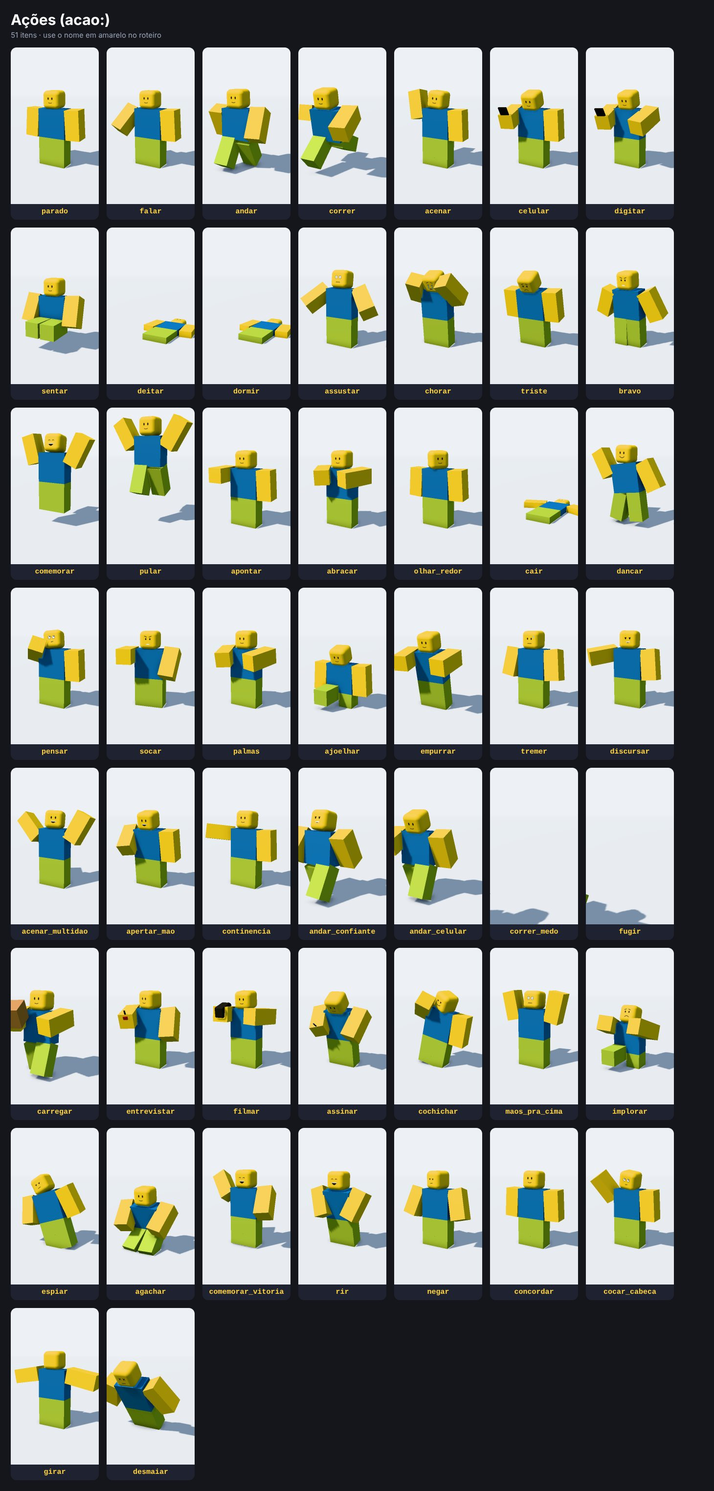
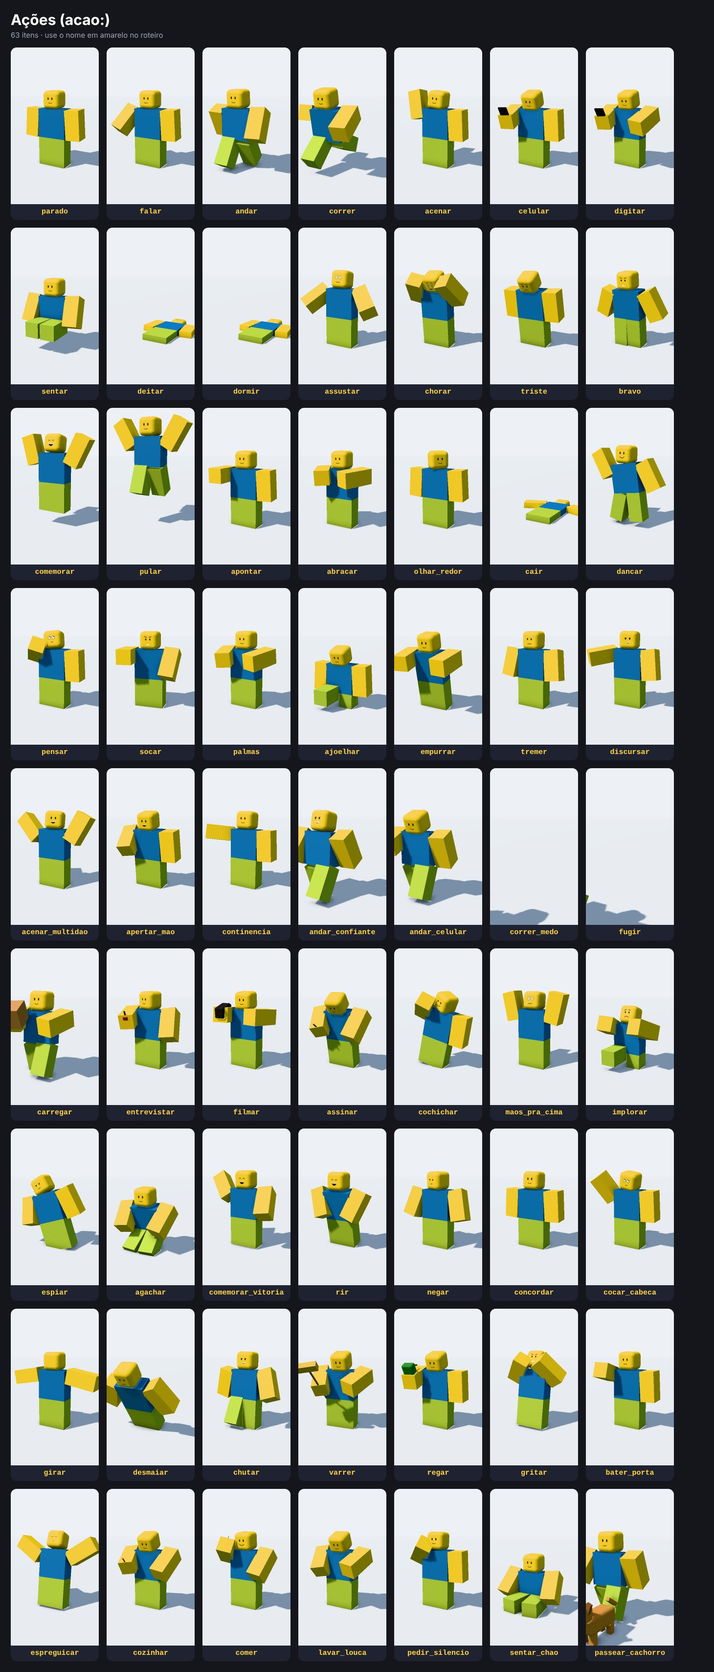
Bairro brasileiro: cenários, casas, animais, personagens e ações
- Cenários: bairro (casas e sobrados com telhado de telha, muros,
  portões, fios de poste, morro ao fundo), quintal, cozinha, campinho
- 28 props: casa_br, sobrado, muro, portao, caixa_dagua, churrasqueira,
  piscina, varal, cachorro, gato, bicicleta, moto, cozinha, parquinho...
- 10 personagens de bairro/família e 12 ações do dia a dia
- pet: cachorro/gato que acompanha o dono; passear_cachorro com coleira
- Âncoras com direção (cadeira do quintal, fogão, pia, mesa)

Claude-Session: https://claude.ai/code/session_01L9V3oGiK3wXogPFqZJY4DD

diff --git a/src/motor/props.js b/src/motor/props.js
@@ -116,8 +116,94 @@ export const PROPS = {
     return g; },
   quadro_parede: (o = {}) => { const g = grupo([caixa(3.4, 4.2, 0.2, '#c9a24a', { pos: [0, 0, 0] })]); const p = placaTexto(o.texto || '★', 3.0, 1.6, { fundo: o.cor || '#3a5a8a', corTexto: '#f5e6b8' });
     p.position.set(0, 0, 0.11); g.add(p); g.add(plano(3.0, 3.8, mat(o.cor || '#3a5a8a'), { pos: [0, 0, 0.105] })); return g; },
+  // --- bairro (casas brasileiras) ---
+  casa_br: (o = {}) => casaBR(o, 1),
+  sobrado: (o = {}) => casaBR(o, 2),
+  muro: (o = {}) => { const w = o.largura || 10, c = o.cor || '#e9e6dc', h = o.altura || 2.2; const g = grupo([]);
+    const vao = o.portao === false ? 0 : 3.2, px = o.portao_x ?? 0;
+    const lados = vao ? [[-w / 2, px - vao / 2], [px + vao / 2, w / 2]] : [[-w / 2, w / 2]];
+    for (const [a, b] of lados) if (b - a > 0.05) { g.add(caixa(b - a, h, 0.4, c, { pos: [(a + b) / 2, h / 2, 0] })); g.add(caixa(b - a + 0.04, 0.15, 0.5, '#d8d4cc', { pos: [(a + b) / 2, h + 0.07, 0] })); }
+    if (vao) { const pt = PROPS.portao({ largura: vao, cor: o.portao_cor }); pt.position.x = px; g.add(pt); }
+    return g; },
+  portao: (o = {}) => { const w = o.largura || 3.2, c = o.cor || '#3a3d44'; const g = grupo([caixa(w, 0.12, 0.12, c, { pos: [0, 2.3, 0] }), caixa(w, 0.12, 0.12, c, { pos: [0, 0.15, 0] })]);
+    for (let x = -w / 2 + 0.1; x <= w / 2 - 0.05; x += 0.28) g.add(caixa(0.07, 2.2, 0.07, c, { pos: [x, 1.22, 0] })); return g; },
+  cerca_viva: (o = {}) => { const g = grupo([]); for (let i = 0; i < (o.n || 5); i++) g.add(caixa(1.6, 1.4, 1.2, i % 2 ? '#2f8a3c' : '#38a047', { pos: [i * 1.55, 0.7, 0], round: 0.4 })); return g; },
+  caixa_dagua: () => grupo([cilindro(1.0, 0.9, 1.3, '#1e6fd9', { pos: [0, 0.65, 0], seg: 20 }), cilindro(1.05, 1.05, 0.2, '#1a5fc0', { pos: [0, 1.4, 0], seg: 20 })]),
+  churrasqueira: () => grupo([caixa(3, 2.6, 1.6, '#b5653b', { pos: [0, 1.3, 0] }), caixa(2.2, 1.0, 0.3, '#1b1b1b', { pos: [0, 2.0, 0.7] }),
+    caixa(1.2, 3, 1.0, '#a85a33', { pos: [0, 4.1, -0.2] }), caixa(2.0, 0.08, 0.8, '#777', { pos: [0, 2.0, 0.4] })]),
+  piscina: (o = {}) => { const w = o.largura || 8, d = o.prof || 5; return grupo([caixa(w + 1, 0.3, d + 1, '#e8e2d2', { pos: [0, 0.15, 0] }),
+    caixa(w, 0.32, d, mat('#3fb6e8', { rough: 0.05, metal: 0.1, emissive: '#1a7fb0', emissiveIntensity: 0.25 }), { pos: [0, 0.17, 0], sombra: false })]); },
+  varal: () => { const g = grupo([cilindro(0.06, 0.06, 3.5, '#888', { pos: [-3, 1.75, 0] }), cilindro(0.06, 0.06, 3.5, '#888', { pos: [3, 1.75, 0] }), cilindro(0.02, 0.02, 6, '#ddd', { pos: [0, 3.4, 0], rot: [0, 0, 90] })]);
+    [['#e53935', -2.2, 1.2], ['#1e88e5', -0.9, 1.0], ['#fdd835', 0.3, 1.3], ['#ffffff', 1.6, 0.9]].forEach(([c, x, h]) => g.add(caixa(1.0, h, 0.04, c, { pos: [x, 3.35 - h / 2, 0] }))); return g; },
+  casinha_cachorro: (o = {}) => { const g = grupo([caixa(2.4, 1.8, 2.4, o.cor || '#b5653b', { pos: [0, 0.9, 0] }), caixa(0.9, 1.1, 0.1, '#2a1a12', { pos: [0, 0.6, 1.21] })]);
+    for (const s of [-1, 1]) g.add(caixa(1.6, 0.15, 2.7, '#7a2e1f', { pos: [s * 0.62, 2.2, 0], rot: [0, 0, -s * 38] })); return g; },
+  cachorro: (o = {}) => { const c = o.cor || '#c58a4a', esc = '#2a1a12'; const g = grupo([caixa(1.0, 0.9, 2.0, c, { pos: [0, 1.0, 0], round: 0.2 }), caixa(0.9, 0.85, 0.9, c, { pos: [0, 1.7, 1.15], round: 0.25 }),
+    caixa(0.5, 0.35, 0.4, o.focinho || '#e8c9a0', { pos: [0, 1.55, 1.7], round: 0.1 }), caixa(0.18, 0.14, 0.1, esc, { pos: [0, 1.68, 1.92] }),
+    caixa(0.25, 0.5, 0.15, o.orelha || '#8a5a33', { pos: [-0.42, 2.0, 1.1], rot: [0, 0, 20] }), caixa(0.25, 0.5, 0.15, o.orelha || '#8a5a33', { pos: [0.42, 2.0, 1.1], rot: [0, 0, -20] }),
+    caixa(0.12, 0.12, 0.05, esc, { pos: [-0.22, 1.85, 1.61] }), caixa(0.12, 0.12, 0.05, esc, { pos: [0.22, 1.85, 1.61] }), caixa(0.2, 0.2, 0.9, c, { pos: [0, 1.5, -1.3], rot: [-35, 0, 0] })]);
+    for (const [x, z] of [[-0.3, 0.7], [0.3, 0.7], [-0.3, -0.7], [0.3, -0.7]]) g.add(caixa(0.3, 0.6, 0.3, c, { pos: [x, 0.3, z] })); g.scale.setScalar(o.tam || 1); return g; },
+  gato: (o = {}) => { const c = o.cor || '#7c7f88'; const g = grupo([caixa(0.6, 0.6, 1.2, c, { pos: [0, 0.6, 0], round: 0.15 }), caixa(0.65, 0.6, 0.6, c, { pos: [0, 1.15, 0.6], round: 0.15 }),
+    cilindro(0, 0.13, 0.3, c, { pos: [-0.2, 1.55, 0.6], seg: 4 }), cilindro(0, 0.13, 0.3, c, { pos: [0.2, 1.55, 0.6], seg: 4 }), caixa(0.12, 0.12, 0.8, c, { pos: [0, 1.0, -0.8], rot: [-50, 0, 0] }),
+    caixa(0.1, 0.12, 0.04, '#9be36b', { pos: [-0.14, 1.2, 0.91] }), caixa(0.1, 0.12, 0.04, '#9be36b', { pos: [0.14, 1.2, 0.91] })]);
+    for (const [x, z] of [[-0.18, 0.4], [0.18, 0.4], [-0.18, -0.4], [0.18, -0.4]]) g.add(caixa(0.18, 0.4, 0.18, c, { pos: [x, 0.2, z] })); return g; },
+  bicicleta: (o = {}) => { const c = o.cor || '#c4281c'; const g = grupo([]);
+    for (const z of [-1.1, 1.1]) { const roda = new THREE.Mesh(new THREE.TorusGeometry(0.7, 0.07, 8, 24), mat('#1b1b1b')); roda.position.set(0, 0.75, z); roda.rotation.y = Math.PI / 2; roda.castShadow = true; g.add(roda); }
+    g.add(caixa(0.12, 0.12, 2.0, c, { pos: [0, 1.25, 0], rot: [-12, 0, 0] })); g.add(caixa(0.12, 1.0, 0.12, c, { pos: [0, 1.2, -0.5] })); g.add(caixa(0.4, 0.12, 0.7, '#222', { pos: [0, 1.75, -0.55] }));
+    g.add(caixa(0.12, 0.9, 0.12, c, { pos: [0, 1.4, 1.0] })); g.add(caixa(1.0, 0.1, 0.1, '#222', { pos: [0, 1.9, 1.0] })); return g; },
+  moto: (o = {}) => { const c = o.cor || '#1d3b72'; const g = grupo([caixa(0.7, 0.9, 2.4, c, { pos: [0, 1.2, 0], round: 0.25 }), caixa(0.6, 0.25, 1.1, '#111', { pos: [0, 1.75, -0.4] }),
+    caixa(1.2, 0.1, 0.1, '#222', { pos: [0, 2.1, 1.05] }), caixa(0.5, 0.4, 0.2, mat('#ffe9a8', { emissive: '#ffe9a8', emissiveIntensity: 0.8 }), { pos: [0, 1.6, 1.25] })]);
+    for (const z of [-1.0, 1.05]) g.add(cilindro(0.6, 0.6, 0.3, '#1b1b1b', { pos: [0, 0.6, z], rot: [0, 0, 90] })); if (o.bau) g.add(caixa(1.0, 0.9, 0.9, '#c4281c', { pos: [0, 2.1, -1.1] })); return g; },
+  balanco: () => { const g = grupo([caixa(5, 0.25, 0.25, '#c4281c', { pos: [0, 5, 0] })]);
+    for (const x of [-2.4, 2.4]) for (const z of [-1, 1]) g.add(caixa(0.22, 5.2, 0.22, '#c4281c', { pos: [x, 2.5, z * 0.8], rot: [z * 12, 0, 0] }));
+    for (const x of [-1, 1]) { g.add(cilindro(0.03, 0.03, 3.2, '#999', { pos: [x - 0.4, 3.4, 0] })); g.add(cilindro(0.03, 0.03, 3.2, '#999', { pos: [x + 0.4, 3.4, 0] })); g.add(caixa(1.0, 0.12, 0.5, '#f5cd30', { pos: [x, 1.8, 0] })); }
+    return g; },
+  escorregador: () => grupo([caixa(1.6, 0.2, 5, '#1e88e5', { pos: [0, 1.9, 1.6], rot: [38, 0, 0] }), caixa(1.8, 3.6, 1.8, '#f5cd30', { pos: [0, 1.8, -1.6] }), caixa(1.9, 0.2, 1.9, '#e53935', { pos: [0, 3.7, -1.6] })]),
+  trave: () => { const b = '#f2f3f3'; return grupo([caixa(0.25, 4.2, 0.25, b, { pos: [-4, 2.1, 0] }), caixa(0.25, 4.2, 0.25, b, { pos: [4, 2.1, 0] }), caixa(8.25, 0.25, 0.25, b, { pos: [0, 4.2, 0] }),
+    caixa(8, 4.2, 0.04, new THREE.MeshStandardMaterial({ color: 0xffffff, transparent: true, opacity: 0.25, roughness: 1 }), { pos: [0, 2.1, -1.5], sombra: false })]); },
+  bola: (o = {}) => { const g = grupo([esfera(0.45, o.cor || '#ffffff', { pos: [0, 0.45, 0] })]); for (const [x, y, z] of [[0, 0.88, 0], [0.4, 0.5, 0.15], [-0.3, 0.55, 0.32], [0.05, 0.2, -0.38]]) g.add(esfera(0.13, '#111', { pos: [x, y, z] })); return g; },
+  geladeira: () => grupo([caixa(2.0, 5.2, 1.8, '#f2f3f3', { pos: [0, 2.6, 0], round: 0.12 }), caixa(2.02, 0.05, 1.82, '#bbb', { pos: [0, 3.6, 0] }), caixa(0.1, 1.0, 0.1, '#999', { pos: [0.75, 4.3, 0.95] }), caixa(0.1, 1.4, 0.1, '#999', { pos: [0.75, 2.6, 0.95] })]),
+  fogao: () => { const g = grupo([caixa(2.2, 2.3, 1.8, '#f2f3f3', { pos: [0, 1.15, 0] }), caixa(1.8, 1.1, 0.06, '#222', { pos: [0, 1.0, 0.92] }), caixa(2.2, 0.08, 1.8, '#222', { pos: [0, 2.34, 0] })]);
+    for (const x of [-0.5, 0.5]) for (const z of [-0.4, 0.4]) g.add(cilindro(0.3, 0.3, 0.06, '#444', { pos: [x, 2.4, z], seg: 14 })); return g; },
+  pia: () => grupo([caixa(4, 2.3, 1.8, '#f2f3f3', { pos: [0, 1.15, 0] }), caixa(4.1, 0.15, 1.9, '#8c8f99', { pos: [0, 2.35, 0] }), caixa(1.6, 0.1, 1.1, '#5a5d66', { pos: [-0.8, 2.43, 0] }),
+    cilindro(0.06, 0.06, 0.8, '#ccc', { pos: [-0.8, 2.8, -0.6] }), caixa(0.1, 0.1, 0.5, '#ccc', { pos: [-0.8, 3.15, -0.4] })]),
+  armario: (o = {}) => { const w = o.largura || 6, g = grupo([caixa(w, 2.2, 1.2, o.cor || '#a8754a', { pos: [0, 0, 0] })]);
+    for (let x = -w / 2 + 1; x < w / 2; x += 2) { g.add(caixa(1.85, 2.0, 0.05, o.cor2 || '#c9945e', { pos: [x, 0, 0.62] })); g.add(caixa(0.1, 0.4, 0.08, '#555', { pos: [x + 0.7, 0, 0.66] })); } return g; },
+  mesa_jantar: (o = {}) => { const g = PROPS.mesa({ largura: o.largura || 5, cor: o.cor || '#8a5a33' });
+    for (const [x, z, v] of [[-1.3, 2.0, 180], [1.3, 2.0, 180], [-1.3, -2.0, 0], [1.3, -2.0, 0]]) { const c = PROPS.cadeira({ cor: o.cadeira || '#a8754a' }); c.position.set(x, 0, z); c.rotation.y = v * Math.PI / 180; g.add(c); }
+    return g; },
+  cadeira_plastico: (o = {}) => grupo([caixa(1.5, 0.2, 1.5, o.cor || '#f2f3f3', { pos: [0, 1.0, 0], round: 0.08 }), caixa(1.5, 1.4, 0.15, o.cor || '#f2f3f3', { pos: [0, 1.8, -0.7], rot: [-8, 0, 0], round: 0.05 }),
+    ...[[-0.6, 0.6], [0.6, 0.6], [-0.6, -0.6], [0.6, -0.6]].map(([x, z]) => caixa(0.15, 1.0, 0.15, o.cor || '#f2f3f3', { pos: [x, 0.5, z] }))]),
+  saco_lixo: () => grupo([esfera(0.6, '#1b1b1b', { pos: [0, 0.55, 0], mat: { rough: 0.3 } }), esfera(0.5, '#1b1b1b', { pos: [0.8, 0.45, 0.2], mat: { rough: 0.3 } })]),
+  vaso_flor: (o = {}) => grupo([cilindro(0.45, 0.35, 0.8, '#b5653b', { pos: [0, 0.4, 0] }), ...[0, 1, 2, 3].map(i => esfera(0.22, o.cor || ['#ff4f8b', '#ffd23f', '#e53935', '#b06bff'][i], { pos: [Math.sin(i * 1.6) * 0.25, 1.05, Math.cos(i * 1.6) * 0.25] }))]),
+  poste_fios: (o = {}) => { const g = grupo([cilindro(0.22, 0.28, 11, '#9a9a9a', { pos: [0, 5.5, 0] }), caixa(2.6, 0.25, 0.25, '#7a7a7a', { pos: [0, 10, 0] }),
+    cilindro(0.35, 0.35, 0.9, '#6d6f75', { pos: [0.6, 8.6, 0] })]);
+    if (o.noite) { g.add(caixa(0.7, 0.25, 0.5, mat('#eee', { emissive: '#ffe2a0', emissiveIntensity: 2 }), { pos: [0, 8.0, 0.7] })); const l = new THREE.PointLight(0xffd59a, 35, 22, 1.6); l.position.set(0, 7.6, 1); g.add(l); }
+    return g; },
+  lombada: () => grupo([caixa(8, 0.25, 1.6, '#f5cd30', { pos: [0, 0.1, 0], round: 0.1 })]),
 };
 export const NOMES_PROPS = Object.keys(PROPS);
+
+/** Casa brasileira: telhado de telha em duas águas, grade na janela, caixa d'água opcional. andares = 1 ou 2. */
+function casaBR(o, andares) {
+  const w = o.largura || 9, d = 8, hA = 4.2, h = hA * andares, c = o.cor || '#f0b446', n = o.noite;
+  const g = grupo([caixa(w, h, d, c, { pos: [0, h / 2, 0] }), caixa(w + 0.1, 0.5, d + 0.1, o.barrado || '#d8d4cc', { pos: [0, 0.25, 0] })]);
+  const telha = o.telhado || '#c8643b', inc = 26, meio = d / 2 + 0.7, comp = meio / Math.cos(inc * Math.PI / 180);
+  for (const s of [-1, 1]) g.add(caixa(w + 1.2, 0.35, comp, telha, { pos: [0, h + Math.tan(inc * Math.PI / 180) * meio / 2, s * meio / 2], rot: [s * inc, 0, 0] }));
+  { // oitão (triângulo das laterais) sob as duas águas do telhado
+    const sub = Math.tan(inc * Math.PI / 180) * (d / 2), sh = new THREE.Shape([new THREE.Vector2(-d / 2, 0), new THREE.Vector2(d / 2, 0), new THREE.Vector2(0, sub)]);
+    const ot = new THREE.Mesh(new THREE.ExtrudeGeometry(sh, { depth: w - 0.02, bevelEnabled: false }), mat(c)); ot.rotation.y = Math.PI / 2; ot.position.set(-w / 2 + 0.01, h, 0);
+    ot.castShadow = ot.receiveShadow = true; g.add(ot); }
+  const vid = () => mat(n ? '#ffe3a3' : '#a8dcff', n ? { emissive: '#ffd27a', emissiveIntensity: 1.1 } : { rough: 0.15, metal: 0.1 });
+  const janela = (x, y) => { g.add(caixa(2.2, 1.9, 0.15, '#ffffff', { pos: [x, y, d / 2 + 0.04] })); g.add(caixa(1.9, 1.6, 0.16, vid(), { pos: [x, y, d / 2 + 0.06], sombra: false }));
+    if (o.grade !== false) for (let k = -0.8; k <= 0.81; k += 0.4) g.add(caixa(0.06, 1.7, 0.06, '#2b2b2b', { pos: [x + k, y, d / 2 + 0.2] })); };
+  g.add(caixa(1.8, 3.4, 0.15, o.porta || '#7a4b2a', { pos: [-w / 4, 1.95, d / 2 + 0.05] })); g.add(esfera(0.1, '#e0b040', { pos: [-w / 4 + 0.6, 1.9, d / 2 + 0.15] }));
+  janela(w / 5, 2.4); if (andares === 2) { janela(-w / 4, hA + 2.2); janela(w / 5, hA + 2.2);
+    g.add(caixa(w * 0.55, 0.25, 1.4, '#d8d4cc', { pos: [w / 5 - 0.3, hA + 0.4, d / 2 + 0.7] }));
+    for (let x = -w * 0.25; x <= w * 0.25; x += 0.45) g.add(caixa(0.07, 1.1, 0.07, '#2b2b2b', { pos: [w / 5 - 0.3 + x, hA + 1.05, d / 2 + 1.35] }));
+    g.add(caixa(w * 0.55, 0.1, 0.1, '#2b2b2b', { pos: [w / 5 - 0.3, hA + 1.6, d / 2 + 1.35] })); }
+  if (o.caixa_dagua !== false) { const cx = PROPS.caixa_dagua(); cx.position.set(w / 2 - 1.8, h + Math.tan(inc * Math.PI / 180) * meio * 0.6, -1.5); g.add(cx); }
+  return g;
+}
 
 export function criarProp(spec) {
   const fn = PROPS[spec.tipo]; if (!fn) return null;

diff --git a/src/motor/cenarios.js b/src/motor/cenarios.js
@@ -215,6 +215,70 @@ export const CENARIOS = {
     g.userData.ancoras = { sentar: [0, 0, -6.1], assinar: [0, 0, -5.8] };
     luzTeto(g, 0, -1, n);
   },
+  bairro(o, g, r) { // rua de bairro: atores no asfalto, calçada, muros/portões e casas logo atrás, morro com mais casas ao fundo
+    const n = o.hora === 'noite';
+    g.add(caixa(500, 0.2, 500, '#4ccd3d', { pos: [0, -0.1, 0] }));
+    g.add(caixa(500, 0.1, 16, '#55596a', { pos: [0, 0.02, 5] }));                               // asfalto
+    for (let i = 0; i < 40; i++) g.add(caixa(r.entre(0.6, 2), 0.02, r.entre(0.4, 1.2), '#4a4e5d', { pos: [r.entre(-40, 40), 0.075, r.entre(-2, 12)], sombra: false })); // remendos
+    g.add(caixa(500, 0.35, 0.35, '#c9ccd5', { pos: [0, 0.17, -3.2] }));                          // meio-fio
+    g.add(caixa(500, 0.3, 2.6, '#bfc2ca', { pos: [0, 0.15, -4.6] }));                            // calçada
+    const cores = ['#f0b446', '#8fc1e3', '#f2a7c3', '#b7e1a1', '#e9e6dc', '#f28b5b', '#c9b2e8', '#ffe08a', '#9fd8c8'];
+    const muros = ['#e9e6dc', '#d9d4c7', '#f2a7c3', '#8fc1e3', '#e8c58c'];
+    for (let x = -48, i = 0; x <= 48; x += 12, i++) {
+      const sob = r() < 0.4; add(g, sob ? 'sobrado' : 'casa_br', { cor: r.item(cores), telhado: r.item(['#c8643b', '#b5533a', '#8a4a35', '#5a5d66']), noite: n, largura: r.entre(8, 10), caixa_dagua: r() < 0.7 }, [x + r.entre(-0.5, 0.5), 0, -12.5]);
+      add(g, 'muro', { largura: 12, cor: r.item(muros), portao_x: r.entre(-2.5, 2.5), portao_cor: r.item(['#3a3d44', '#7a2e1f', '#1d3b72', '#2e5d3a']) }, [x, 0, -6.2]);
+      if (r() < 0.5) add(g, 'arbusto', {}, [x + r.entre(-4, 4), 0, -7.8]);
+    }
+    for (let x = -40; x <= 40; x += 16) add(g, 'poste_fios', { noite: n }, [x + 5, 0, -3.8]);
+    for (const y of [10.0, 9.3]) g.add(cilindro(0.03, 0.03, 200, '#222', { pos: [0, y, -3.8], rot: [0, 0, 90], seg: 6, sombra: false }));
+    add(g, 'carro', { cor: r.item(['#c4281c', '#1d3b72', '#f2f3f3', '#4d4f57']) }, [-9, 0, -1.4], 90);
+    add(g, 'moto', { cor: '#c4281c' }, [10, 0, -1.8], 90); add(g, 'bicicleta', {}, [-3.5, 0, -4.6], 80);
+    add(g, 'cachorro', {}, [5.5, 0, -4.3], -30); add(g, 'saco_lixo', {}, [-14, 0, -4.8]); add(g, 'lixeira', { cor: '#2e7d32' }, [14, 0, -4.8]);
+    add(g, 'arvore', { tam: 0.9 }, [18, 0, -4.6]); add(g, 'arvore', { tam: 1.1 }, [-20, 0, -4.6]); add(g, 'lombada', {}, [24, 0, 3]);
+    g.add(caixa(200, 8, 40, '#3fae3a', { pos: [0, 2, -46], rot: [6, 0, 0] }));                     // morro ao fundo
+    for (let x = -70; x <= 70; x += 8) add(g, r() < 0.3 ? 'sobrado' : 'casa_br', { cor: r.item(cores), noite: n, largura: 7, grade: false }, [x + r.entre(-2, 2), 4.5 + r.entre(0, 3), -36 - r.entre(0, 8)]);
+    n ? lua(g) : nuvens(g, r);
+  },
+  quintal(o, g, r) { // quintal: churrasqueira, piscina, varal, casinha de cachorro
+    const n = o.hora === 'noite';
+    g.add(caixa(500, 0.2, 500, '#4ccd3d', { pos: [0, -0.1, 0] }));
+    g.add(caixa(30, 0.15, 10, '#c9b79c', { pos: [0, 0.07, -8] }));                               // piso de cimento queimado
+    add(g, 'muro', { largura: 40, altura: 3.2, cor: o.cor || '#e9e6dc', portao: false }, [0, 0, -14]);
+    add(g, 'muro', { largura: 34, altura: 3.2, cor: o.cor || '#e9e6dc', portao: false }, [-16, 0, 3], 90); add(g, 'muro', { largura: 34, altura: 3.2, cor: o.cor || '#e9e6dc', portao: false }, [16, 0, 3], 90);
+    add(g, 'churrasqueira', {}, [-9, 0, -12.6]); add(g, 'piscina', {}, [9, 0, -6]); add(g, 'varal', {}, [-2, 0, -11]);
+    add(g, 'casinha_cachorro', {}, [-12.5, 0, -2], 70); add(g, 'cachorro', { cor: '#7c5c46' }, [-10, 0, -0.5], 40);
+    add(g, 'mesa', { largura: 4, cor: '#f2f3f3' }, [-3, 0, -4]); add(g, 'cadeira_plastico', {}, [-5.2, 0, -4], 90); add(g, 'cadeira_plastico', {}, [-0.8, 0, -4], -90);
+    add(g, 'arvore', { tam: 1.2 }, [13, 0, -12]); add(g, 'vaso_flor', {}, [5, 0, -13]); add(g, 'vaso_flor', { cor: '#ffd23f' }, [6.2, 0, -13]);
+    add(g, 'casa_br', { cor: '#f0b446', noite: n }, [0, 3.2, -24]);
+    g.userData.ancoras = { sentar: [-5.0, 0, -4, 90] };
+    n ? lua(g) : nuvens(g, r);
+  },
+  cozinha(o, g, r) { // cozinha de casa
+    const n = o.hora === 'noite'; sala(g, { parede: o.parede || '#f2efe6', chao: o.chao || '#c9c2b3' });
+    for (let x = -12; x <= 12; x += 1.2) for (let y = 0.6; y < 6; y += 1.2) g.add(caixa(1.15, 1.15, 0.05, (Math.round(x / 1.2) + Math.round(y / 1.2)) % 2 ? '#ffffff' : '#dfe9ef', { pos: [x, y, -7.7], sombra: false }));
+    add(g, 'pia', {}, [-2, 0, -6.8]); add(g, 'fogao', {}, [2.4, 0, -6.8]); add(g, 'geladeira', {}, [-7, 0, -6.6]);
+    const a = PROPS.armario({}); a.position.set(-1.5, 7.2, -7.1); g.add(a);
+    add(g, 'mesa_jantar', {}, [3, 0, 1.5]);
+    janela(g, 7.5, 6.5, -7.6, 4, 3, n);
+    g.userData.ancoras = { sentar: [1.7, 0, -0.3], cozinhar: [2.4, 0, -5.0, 180], lavar_louca: [-2.8, 0, -5.0, 180] };
+    luzTeto(g, 0, -1, n);
+  },
+  campinho(o, g, r) { // campinho de futebol de bairro
+    const n = o.hora === 'noite';
+    g.add(caixa(500, 0.2, 500, '#7a6a4f', { pos: [0, -0.1, 0] }));
+    g.add(caixa(36, 0.06, 56, o.chao || '#58b947', { pos: [0, 0.02, -10] }));
+    for (let i = 0; i < 30; i++) g.add(caixa(r.entre(1, 3), 0.03, r.entre(1, 3), '#9b8a66', { pos: [r.entre(-14, 14), 0.06, r.entre(-30, 10)], sombra: false })); // terra batida
+    const L = '#f2f3f3';
+    g.add(caixa(0.25, 0.03, 52, L, { pos: [-16, 0.07, -10], sombra: false })); g.add(caixa(0.25, 0.03, 52, L, { pos: [16, 0.07, -10], sombra: false }));
+    g.add(caixa(32, 0.03, 0.25, L, { pos: [0, 0.07, -36], sombra: false })); g.add(caixa(32, 0.03, 0.25, L, { pos: [0, 0.07, 6], sombra: false }));
+    g.add(caixa(32, 0.03, 0.25, L, { pos: [0, 0.07, 6 - 21], sombra: false }));
+    add(g, 'trave', {}, [0, 0, -36]); add(g, 'bola', {}, [1.5, 0, -1.5]);
+    for (const x of [-19, 19]) for (let z = -38; z <= 8; z += 4) g.add(caixa(0.12, 5, 0.12, '#888', { pos: [x, 2.5, z] }));
+    for (const x of [-19, 19]) g.add(caixa(0.05, 5, 46, new THREE.MeshStandardMaterial({ color: 0xaaaaaa, transparent: true, opacity: 0.3 }), { pos: [x, 2.5, -15], sombra: false }));
+    for (const x of [-22, 22]) add(g, 'poste_fios', { noite: n }, [x, 0, -14]);
+    for (let x = -60; x <= 60; x += 10) add(g, r() < 0.3 ? 'sobrado' : 'casa_br', { cor: r.item(['#f0b446', '#8fc1e3', '#f2a7c3', '#e9e6dc']), noite: n, largura: 8 }, [x, 0, -50]);
+    n ? lua(g) : nuvens(g, r);
+  },
   celular(o, g, r) { // close na tela do celular (use `tela: {tipo, ...}`)
     g.add(caixa(60, 60, 1, o.cor || '#6b7a99', { pos: [0, 4, -6] }));
     const tel = grupo([caixa(3.3, 6.6, 0.35, '#111', { round: 0.3 })]);
@@ -223,7 +287,7 @@ export const CENARIOS = {
   },
   vazio(o, g, r) { g.add(caixa(500, 0.2, 500, o.chao || '#d5d9e2', { pos: [0, -0.1, 0] })); },
 };
-const INTERNOS = new Set(['sala', 'quarto', 'escola', 'hospital', 'gabinete']);
+const INTERNOS = new Set(['sala', 'quarto', 'escola', 'hospital', 'gabinete', 'cozinha']);
 export const NOMES_CENARIOS = Object.keys(CENARIOS);
 
 export function construirCenario(nome, o = {}) {

diff --git a/src/motor/acoes.js b/src/motor/acoes.js
@@ -79,10 +79,24 @@ export const ACOES = {
   cocar_cabeca: (t) => { const b = respirar(poseBase(), t, 0.4); b.bd = [150 + S(t * 16) * 6, 28]; b.cab = [6, 0, -10]; return b; },
   girar: (t) => { const b = poseBase(); b.raiz[1] = (t * 360) % 360; b.bd = [0, 80]; b.be = [0, 80]; return b; },
   desmaiar: (t) => { const b = poseBase(); const k = ease((t - 0.25) / 0.6); b.raiz = [90 * k, 0, 0]; b.y = 0.5 * k; b.dx = t < 0.25 ? S(t * 40) * 0.05 : 0; b.bd = [0, 10 + 40 * k]; b.be = [0, 10 + 40 * k]; return b; },
+
+  // --- dia a dia / bairro ---
+  chutar: (t) => { const b = respirar(poseBase(), t, 0.3); const k = Math.max(0, S(Math.min(t, 0.6) / 0.6 * Math.PI)); b.pd = [-30 + 110 * k, 0]; b.be = [40 * k, 20]; b.bd = [-20 * k, 15]; b.tor[0] = -8 * k; return b; },
+  varrer: (t) => { const b = respirar(poseBase(), t, 0.3); const k = S(t * 5); b.bd = [45 + k * 15, -15]; b.be = [55 + k * 15, -25]; b.tor[1] = k * 14; b.cab[0] = 16; return b; },
+  regar: (t) => { const b = respirar(poseBase(), t, 0.4); b.bd = [70 + S(t * 2) * 8, -6]; b.cab[0] = 18; return b; },
+  gritar: (t) => { const b = poseBase(); b.bd = [140, -35]; b.be = [140, -35]; b.tor[0] = -8; b.cab[0] = -14; b.y = Math.abs(S(t * 10)) * 0.05; return b; },
+  bater_porta: (t) => { const b = respirar(poseBase(), t, 0.3); b.bd = [95 + Math.max(0, S(t * 14)) * 18, -5]; return b; },
+  espreguicar: (t) => { const b = poseBase(); const k = ease(t / 0.8); b.bd = [0, 20 + 150 * k]; b.be = [0, 20 + 150 * k]; b.tor[0] = -10 * k; b.cab[0] = -20 * k; b.y = 0.1 * k; return b; },
+  cozinhar: (t) => { const b = respirar(poseBase(), t, 0.3); b.bd = [60, -18 + S(t * 6) * 14]; b.be = [50, -10]; b.cab[0] = 22; return b; },
+  comer: (t) => { const b = respirar(poseBase(), t, 0.3); const k = Math.max(0, S(t * 4)); b.bd = [60 + k * 70, -25 * k]; b.be = [40, -10]; b.cab[0] = 10 - k * 6; return b; },
+  lavar_louca: (t) => { const b = respirar(poseBase(), t, 0.3); b.bd = [55 + S(t * 9) * 8, -15 + S(t * 6) * 8]; b.be = [55 - S(t * 9) * 8, -15]; b.cab[0] = 25; return b; },
+  pedir_silencio: (t) => { const b = respirar(poseBase(), t, 0.3); b.bd = [135, -40]; b.cab[0] = -4; return b; },
+  sentar_chao: (t) => { const b = respirar(poseBase(), t, 0.4); b.y = -1.5; b.pd = [88, 8]; b.pe = [88, 8]; b.bd = [40, 8]; b.be = [40, 8]; return b; },
+  passear_cachorro: (t, d, p) => { const b = ciclo(poseBase(), t, 1.5, 24); b.bd = [35, 10]; b.frente = t * (p.vel ?? 4.5); return b; },
 };
 
 /** Ações que andam (usam `vel`, `caminho` e `ate`). */
-export const LOCOMOCAO = new Set(['andar', 'correr', 'andar_confiante', 'andar_celular', 'correr_medo', 'fugir', 'carregar']);
+export const LOCOMOCAO = new Set(['andar', 'correr', 'andar_confiante', 'andar_celular', 'correr_medo', 'fugir', 'carregar', 'passear_cachorro']);
 
 /**
  * Percorre um trajeto [[x,z],...] a partir de (x0,z0) por `dist` studs.
@@ -105,10 +119,10 @@ export const ROSTO_DA_ACAO = { chorar: 'chorando', assustar: 'assustado', bravo:
   cair: 'assustado', triste: 'triste', pensar: 'pensativo', tremer: 'nervoso', dancar: 'feliz', socar: 'bravo',
   discursar: 'confiante', andar_confiante: 'confiante', acenar_multidao: 'sorriso', correr_medo: 'assustado', fugir: 'assustado',
   maos_pra_cima: 'assustado', implorar: 'triste', espiar: 'desconfiado', cochichar: 'malandro', comemorar_vitoria: 'rindo',
-  rir: 'rindo', negar: 'desconfiado', cocar_cabeca: 'pensativo', desmaiar: 'morto', apertar_mao: 'sorriso' };
+  rir: 'rindo', negar: 'desconfiado', cocar_cabeca: 'pensativo', desmaiar: 'morto', apertar_mao: 'sorriso', gritar: 'bravo', espreguicar: 'dormindo', comer: 'feliz', chutar: 'confiante' };
 
 /** Objetos que aparecem na mão automaticamente com a ação. */
 export const PROP_DA_ACAO = { celular: 'celular', digitar: 'celular', andar_celular: 'celular', entrevistar: 'microfone', filmar: 'filmadora',
-  carregar: 'caixa', assinar: 'caneta' };
+  carregar: 'caixa', assinar: 'caneta', varrer: 'vassoura', regar: 'regador', cozinhar: 'colher', comer: 'garfo', passear_cachorro: 'coleira' };
 
 export const NOMES_ACOES = Object.keys(ACOES);

diff --git a/src/motor/main.js b/src/motor/main.js
@@ -38,7 +38,7 @@ function iniciar(c) {
 }
 
 /** Posição base de cada ator (auto-distribui quem não tem x). */
-const ANCORA_DA_ACAO = { deitar: 'deitar', dormir: 'deitar', sentar: 'sentar', discursar: 'discursar', assinar: 'assinar' };
+const ANCORA_DA_ACAO = { deitar: 'deitar', dormir: 'deitar', sentar: 'sentar', discursar: 'discursar', assinar: 'assinar', cozinhar: 'cozinhar', lavar_louca: 'lavar_louca' };
 function posicoes(atores, ancoras = {}) {
   const usadas = {};
   const semX = atores.filter(a => a.x === undefined && !(ancoras[ANCORA_DA_ACAO[a.acao]] && a.y === undefined)); const n = semX.length;
@@ -46,7 +46,8 @@ function posicoes(atores, ancoras = {}) {
     const anc = ancoras[ANCORA_DA_ACAO[a.acao]];
     if (anc && a.y === undefined) { // vai sozinho para a cama/sofá do cenário (y explícito no roteiro = posição manual)
       const k = usadas[a.acao] = (usadas[a.acao] ?? -1) + 1;
-      return { x: anc[0] + (a.acao === 'sentar' ? k * 2.2 : k * 0), y: anc[1], z: anc[2], vira: 0 };
+      const v = anc[3] ?? 0, passo = a.acao === 'sentar' ? k * 2.2 : 0;
+      return { x: anc[0] + passo * Math.cos(v * Math.PI / 180), y: anc[1], z: anc[2] - passo * Math.sin(v * Math.PI / 180), vira: v };
     }
     let x = a.x, vira = a.vira;
     if (x === undefined) { const i = semX.indexOf(a); x = (i - (n - 1) / 2) * 3.4; }
@@ -75,7 +76,9 @@ async function montar(c) {
     const p = criarPersonagem(a.spec); raiz.add(p.raiz);
     p.setRosto(a.rosto || p.rostoPadrao(a.acao), a.spec.extras || []);
     p.setProp(a.prop === undefined ? p.propPadrao(a.acao) : a.prop, { texto: a.prop_texto, cor: a.prop_cor });
-    return { ...a, ator: p, base: bases[i] };
+    const petTipo = a.pet || (a.acao === 'passear_cachorro' ? 'cachorro' : null);
+    const pet = petTipo ? criarProp({ tipo: petTipo, cor: a.pet_cor }) : null; if (pet) raiz.add(pet);
+    return { ...a, ator: p, base: bases[i], pet };
   });
   if (c.multidao) for (const f of criarMultidao(c.multidao, c.seed ?? c.cenario)) { raiz.add(f.ator.raiz); atores.push(f); }
   const prin = atores.filter(a => !a.figurante).map(a => a.base.x);
@@ -118,7 +121,14 @@ function alvo(t) {
 
 function posar(t) {
   const { atores, c, dur } = atual;
-  for (const a of atores) a.ator.posar(a.acao, t + (a.atraso || 0), dur, a.p || {}, a.base);
+  for (const a of atores) {
+    a.ator.posar(a.acao, t + (a.atraso || 0), dur, a.p || {}, a.base);
+    if (a.pet) { // animal de estimação acompanha o dono (ao lado direito, um pouco à frente)
+      const rz = a.ator.raiz, ang = rz.rotation.y, ox = a.acao === 'passear_cachorro' ? 0.9 : -1.9, oz = a.acao === 'passear_cachorro' ? 2.6 : 0.6;
+      a.pet.position.set(rz.position.x + ox * Math.cos(ang) + oz * Math.sin(ang), Math.abs(Math.sin(t * 11)) * (LOCOMOCAO.has(a.acao) ? 0.1 : 0), rz.position.z - ox * Math.sin(ang) + oz * Math.cos(ang));
+      a.pet.rotation.y = ang;
+    }
+  }
   const camC = atual.cen.cameraFixa ? { camera: 'detalhe', mov: c.mov || 'zoom_in', angulo: 0, dist: c.dist || 3.1 } : c;
   posicionarCamera(cam, camC, t, dur, alvo, atores.length && !c.foco ? atual.espalha : 0);
   const foco = alvo(t); const d = new THREE.Vector3(...atual.cen.sol.dir).normalize();

diff --git a/src/motor/personagem.js b/src/motor/personagem.js
@@ -100,6 +100,13 @@ export const PROPS_MAO = {
   caneta: () => cilindro(0.04, 0.04, 0.6, '#1d3b72', { pos: [0, 0.2, 0] }),
   maleta: () => grupo([caixa(1.0, 0.75, 0.3, '#3b2a1e', { pos: [0, -0.5, 0], round: 0.06 }), caixa(0.4, 0.12, 0.1, '#222', { pos: [0, -0.05, 0] })]),
   prancheta: () => grupo([caixa(0.8, 1.05, 0.05, '#a8754a'), caixa(0.7, 0.85, 0.06, '#ffffff', { pos: [0, -0.05, 0.01] })]),
+  vassoura: () => grupo([cilindro(0.06, 0.06, 4.2, '#a8754a', { pos: [0, 0.3, 0] }), caixa(1.2, 0.5, 0.35, '#d9b44a', { pos: [0, -1.9, 0] })]),
+  regador: () => grupo([caixa(0.8, 0.7, 0.5, '#2e7d32', { pos: [0, -0.2, 0.3], round: 0.1 }), cilindro(0.05, 0.08, 0.9, '#2e7d32', { pos: [0, -0.1, 0.9], rot: [60, 0, 0] })]),
+  colher: () => grupo([cilindro(0.04, 0.04, 1.0, '#a8754a', { pos: [0, 0.2, 0] }), esfera(0.12, '#a8754a', { pos: [0, 0.72, 0] })]),
+  garfo: () => grupo([cilindro(0.03, 0.03, 0.6, '#ccc', { pos: [0, 0.2, 0] }), caixa(0.16, 0.18, 0.03, '#ccc', { pos: [0, 0.55, 0] })]),
+  sacola: () => grupo([caixa(0.9, 1.0, 0.5, '#f2f3f3', { pos: [0, -0.7, 0] }), caixa(0.5, 0.06, 0.06, '#f2f3f3', { pos: [0, -0.1, 0] })]),
+  coleira: () => cilindro(0.025, 0.025, 2.6, '#c4281c', { pos: [0, -0.9, 0.9], rot: [-55, 0, 0] }),
+  bola_mao: () => grupo([esfera(0.42, '#ffffff', { pos: [0, -0.3, 0.2] })]),
   bandeirinha: (o) => grupo([cilindro(0.03, 0.03, 1.6, '#ddd', { pos: [0, 0.8, 0] }), caixa(0.9, 0.6, 0.03, o.cor || '#1f9d48', { pos: [0.47, 1.3, 0] })]),
   cartaz: (o) => { const [c, g] = canvas(256, 160); g.fillStyle = '#fff'; g.fillRect(0, 0, 256, 160); g.strokeStyle = '#c4281c'; g.lineWidth = 10; g.strokeRect(5, 5, 246, 150);
     g.fillStyle = '#111'; g.font = '900 40px Arial Black, Arial'; g.textAlign = 'center'; g.textBaseline = 'middle';

diff --git a/docs/ROTEIRO.md b/docs/ROTEIRO.md
@@ -31,7 +31,7 @@ cenas:                     # 1 cena = 1 corte (~1–2 s, 3–7 palavras)
 | campo | valores | padrão |
 |---|---|---|
 | `fala` | texto narrado e legendado | — (sem fala = só imagem, use `dur`) |
-| `onde` | rua, parque, fachada, sala, quarto, escola, hospital, casamento, **cidade, praca, prefeitura, gabinete**, celular, vazio | cena anterior / rua |
+| `onde` | rua, parque, fachada, sala, quarto, escola, hospital, casamento, cidade, praca, prefeitura, gabinete, **bairro, quintal, cozinha, campinho**, celular, vazio | cena anterior / rua |
 | `hora` | dia, tarde, noite | cena anterior / dia |
 | `cam` | detalhe, close, medio, aberto, geral, baixo, alto, lado, costas | alterna |
 | `mov` | fixo, zoom_in, zoom_out, zoom_rapido, pan, orbita, tremor, seguir, subir, descer | zoom_in |
@@ -57,7 +57,9 @@ Forma longa: `{ id: pai, acao: andar, rosto: feliz, x: 3, z: 0, vira: 90, vel: 8
 
 ### Movimentação (trajetos)
 
-Ações que andam: andar, correr, andar_confiante, andar_celular, correr_medo, fugir, carregar.
+Ações que andam: andar, correr, andar_confiante, andar_celular, correr_medo, fugir, carregar, passear_cachorro.
+
+`pet: cachorro | gato` (+ `pet_cor`) coloca um animal que acompanha o ator; `passear_cachorro` já vem com cachorro e coleira.
 
 ```yaml
 atores:
@@ -84,13 +86,14 @@ multidao: { n: 10, acao: [bravo, parado], prop: cartaz, prop_texto: ["FORA!", "Q
 - Algumas ações já trocam o rosto (chorar→chorando, assustar→assustado…) e põem objeto na mão (celular).
 
 **Ações:** parado, falar, andar, correr, acenar, celular, digitar, sentar, deitar, dormir, assustar, chorar, triste, bravo, comemorar, pular, apontar, abracar, olhar_redor, cair, dancar, pensar, socar, palmas, ajoelhar, empurrar, tremer,
-discursar, acenar_multidao, apertar_mao, continencia, andar_confiante, andar_celular, correr_medo, fugir, carregar, entrevistar, filmar, assinar, cochichar, maos_pra_cima, implorar, espiar, agachar, comemorar_vitoria, rir, negar, concordar, cocar_cabeca, girar, desmaiar
+discursar, acenar_multidao, apertar_mao, continencia, andar_confiante, andar_celular, correr_medo, fugir, carregar, entrevistar, filmar, assinar, cochichar, maos_pra_cima, implorar, espiar, agachar, comemorar_vitoria, rir, negar, concordar, cocar_cabeca, girar, desmaiar,
+chutar, varrer, regar, gritar, bater_porta, espreguicar, cozinhar, comer, lavar_louca, pedir_silencio, sentar_chao, passear_cachorro
 
 **Rostos:** neutro, feliz, sorriso, rindo, malandro, desconfiado, triste, chorando, assustado, surpreso, bravo, dormindo, apaixonado, nervoso, morto, pensativo, confiante (+ qualquer `assets/rostos/<nome>.png`)
 
-**Objetos de mão (`prop`):** celular, espada, presente, flor, livro, dinheiro, microfone, filmadora, caixa, caneta, maleta, prancheta, bandeirinha (`prop_cor`), cartaz (`prop_texto: "FORA!"`)
+**Objetos de mão (`prop`):** celular, espada, presente, flor, livro, dinheiro, microfone, filmadora, caixa, caneta, maleta, prancheta, bandeirinha (`prop_cor`), cartaz (`prop_texto: "FORA!"`), vassoura, regador, colher, garfo, sacola, coleira, bola_mao
 
-Âncoras automáticas: `discursar` vai para o palanque (prefeitura), `sentar`/`assinar` para a mesa do gabinete.
+Âncoras automáticas: `discursar` vai para o palanque (prefeitura), `sentar`/`assinar` para a mesa do gabinete, `sentar` para a mesa da cozinha e a cadeira do quintal, `cozinhar`/`lavar_louca` para o fogão/pia da cozinha.
 
 ## Tela de celular (`onde: celular`)
 
@@ -104,7 +107,8 @@ tela: { tipo: ligacao, nome: Desconhecido }
 ## Personagens (`assets/personagens.yaml`)
 
 Prontos: noob, garoto, amigo, pai, pai_terno, mae, menina, noiva, nerd, valentao, medico, professora, padre, vovo, rei, policial, anjo, demonio, bebe, gamer,
-prefeito, primeira_dama, vice_prefeito, candidato_rival, assessor, seguranca, reporter, cinegrafista, empresario, gari, bombeiro, taxista, vendedor, ladrao, cidadao, cidada, idosa, crianca
+prefeito, primeira_dama, vice_prefeito, candidato_rival, assessor, seguranca, reporter, cinegrafista, empresario, gari, bombeiro, taxista, vendedor, ladrao, cidadao, cidada, idosa, crianca,
+vizinho, vizinha_fofoqueira, tia, tio, irmao_mais_velho, irma, entregador, carteiro, pedreiro, jogador
 
 Campos: `pele, camisa, calca, rosto, extras, acessorios, roupa, cabelo_cor, escala, mangas, bone_cor, laco_cor, capa_cor, gravata_cor, mochila_cor, chifre_cor, vestido_cor`
 
@@ -116,7 +120,8 @@ Campos: `pele, camisa, calca, rosto, extras, acessorios, roupa, cabelo_cor, esca
 ## Props de cenário
 
 arvore, pinheiro, arbusto, casa, predio, poste, carro, banco, mesa, carteira, cadeira, cama, sofa, tv, computador, planta, presente, caixa_correio, cerca, porta, caixao, bolo,
-semaforo (`luz: verde`), onibus (`texto`), taxi, viatura, hidrante, lixeira, faixa_pedestre, loja (`texto`, `cor`), arranha_ceu, fonte, estatua (`texto`), bandeira (`cores`), palanque (`texto`), barraca, outdoor (`texto`), mesa_escritorio, poltrona, estante, quadro_parede (`texto`)
+semaforo (`luz: verde`), onibus (`texto`), taxi, viatura, hidrante, lixeira, faixa_pedestre, loja (`texto`, `cor`), arranha_ceu, fonte, estatua (`texto`), bandeira (`cores`), palanque (`texto`), barraca, outdoor (`texto`), mesa_escritorio, poltrona, estante, quadro_parede (`texto`),
+casa_br / sobrado (`cor`, `telhado`, `grade: false`, `caixa_dagua: false`), muro (`largura`, `cor`, `portao_x`, `portao: false`), portao, cerca_viva, caixa_dagua, poste_fios, churrasqueira, piscina, varal, casinha_cachorro, cachorro / gato (`cor`), bicicleta, moto (`bau: true`), balanco, escorregador, trave, bola, geladeira, fogao, pia, armario, mesa_jantar, cadeira_plastico, saco_lixo, vaso_flor, lombada
 
 ## Música
 
